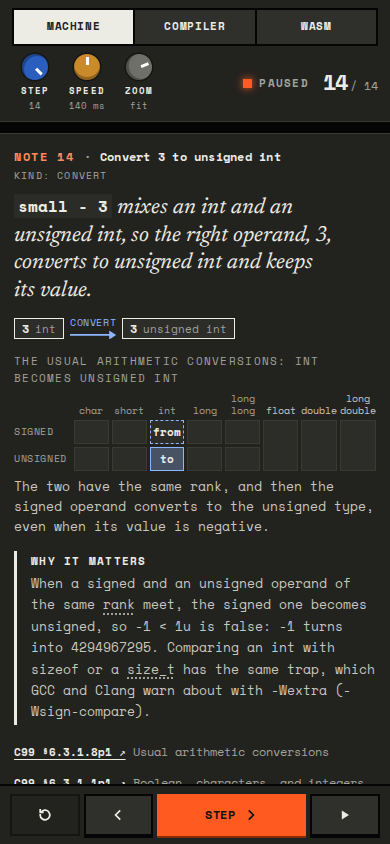
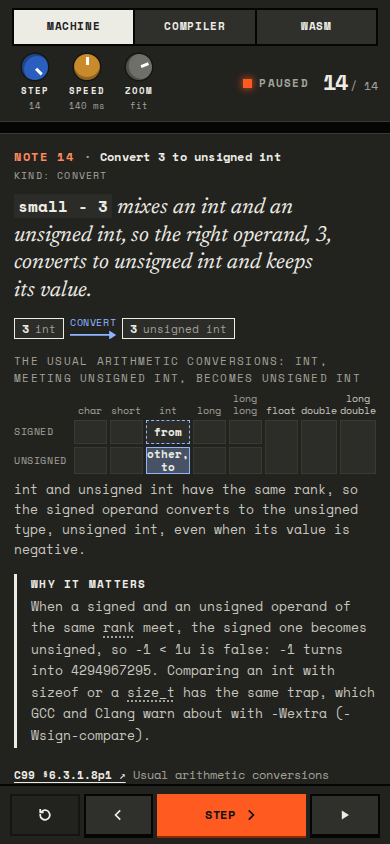
docs(web): Shoot the rank picture's steps again after the fixes
The four lesson steps with a rank picture, and three steps of programs
typed into the editor for the cases no lesson has: long long against
unsigned long from each operand's side, and a float passed to printf. The
audit links them and records the second browser run: the same step
counts, a title and a lead at every step, and no page error.

diff --git a/web/docs/claims-audit.md b/web/docs/claims-audit.md
@@ -235,6 +235,14 @@ dark themes ([`screenshots/claims/`](screenshots/claims/)), with no page
 error. The first phone shots of the rank picture broke "double" inside the
 word; its column labels now keep whole words.
 
+After the second pass the site was built and stepped through again: every
+lesson reached the same count as in the table above, every step had a
+title and a lead, and no page logged an error. The rank picture's steps
+were shot again, with two programs typed into the editor for the cases no
+lesson has, `long long` against `unsigned long` (from each operand's side)
+and a float passed to printf. On a phone the "other, to" mark first broke
+inside "other"; the cells now break only between words.
+
 | Step | 1440x900 | 390x844 |
 | --- | --- | --- |
 | Hello, step 10: a store into a literal | [light](screenshots/claims/literal-note-1440-light.png), [dark](screenshots/claims/literal-note-1440-dark.png) | [light](screenshots/claims/literal-note-390-light.png), [dark](screenshots/claims/literal-note-390-dark.png) |
@@ -250,6 +258,9 @@ word; its column labels now keep whole words.
 | Floating point, step 17: digits each type keeps | [light](screenshots/claims/floating-sizes-note-1440-light.png), [dark](screenshots/claims/floating-sizes-note-1440-dark.png) | [light](screenshots/claims/floating-sizes-note-390-light.png), [dark](screenshots/claims/floating-sizes-note-390-dark.png) |
 | Floating point, step 36: an int meets a double | [light](screenshots/claims/int-to-double-ranks-1440-light.png), [dark](screenshots/claims/int-to-double-ranks-1440-dark.png) | [light](screenshots/claims/int-to-double-ranks-390-light.png), [dark](screenshots/claims/int-to-double-ranks-390-dark.png) |
 | Floating point, step 220: `(int)3e9` | [light](screenshots/claims/truncation-note-1440-light.png), [dark](screenshots/claims/truncation-note-1440-dark.png) | [light](screenshots/claims/truncation-note-390-light.png), [dark](screenshots/claims/truncation-note-390-dark.png) |
+| Edited program, step 15: `long long` meets `unsigned long`, and both convert | [light](screenshots/claims/mixed-ranks-1440-light.png), [dark](screenshots/claims/mixed-ranks-1440-dark.png) | [light](screenshots/claims/mixed-ranks-390-light.png), [dark](screenshots/claims/mixed-ranks-390-dark.png) |
+| The same program, step 16: the `unsigned long` operand's side | [light](screenshots/claims/mixed-ranks-right-1440-light.png), [dark](screenshots/claims/mixed-ranks-right-1440-dark.png) | [light](screenshots/claims/mixed-ranks-right-390-light.png), [dark](screenshots/claims/mixed-ranks-right-390-dark.png) |
+| Edited program, step 11: a float promoted for printf's `...` | [light](screenshots/claims/float-promotion-ranks-1440-light.png), [dark](screenshots/claims/float-promotion-ranks-1440-dark.png) | [light](screenshots/claims/float-promotion-ranks-390-light.png), [dark](screenshots/claims/float-promotion-ranks-390-dark.png) |
 | Structs, step 1: zeroed statics and the program file | [light](screenshots/claims/static-note-1440-light.png), [dark](screenshots/claims/static-note-1440-dark.png) | [light](screenshots/claims/static-note-390-light.png), [dark](screenshots/claims/static-note-390-dark.png) |
 | Structs, step 76: the layout, details open | [light](screenshots/claims/padding-details-1440-light.png), [dark](screenshots/claims/padding-details-1440-dark.png) | [light](screenshots/claims/padding-details-390-light.png), [dark](screenshots/claims/padding-details-390-dark.png) |
 | Signed overflow, step 37: why C leaves it undefined | [light](screenshots/claims/undefined-note-1440-light.png), [dark](screenshots/claims/undefined-note-1440-dark.png) | [light](screenshots/claims/undefined-note-390-light.png), [dark](screenshots/claims/undefined-note-390-dark.png) |
